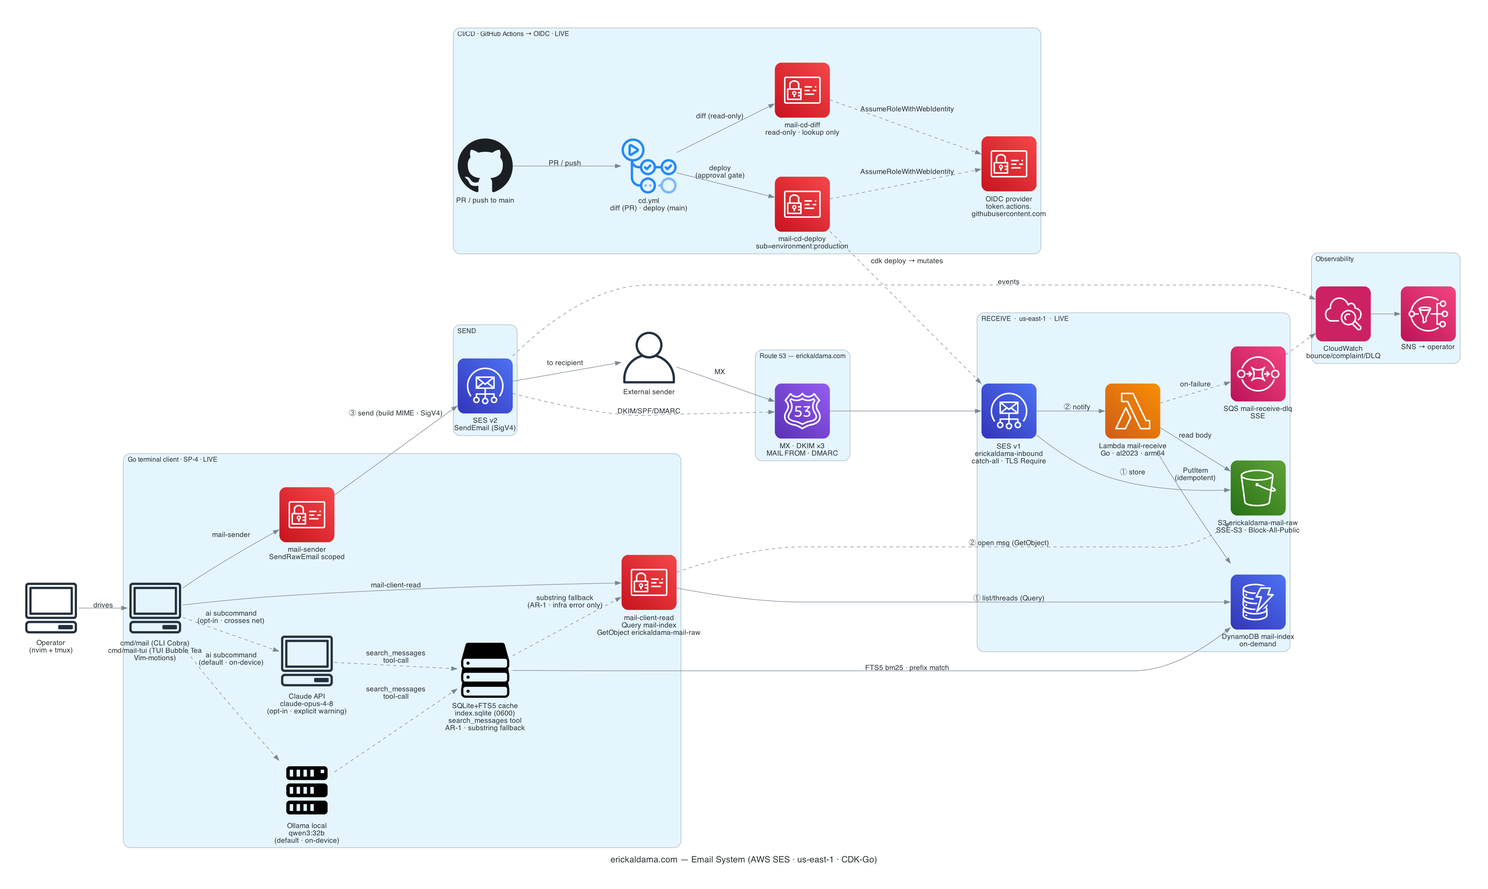
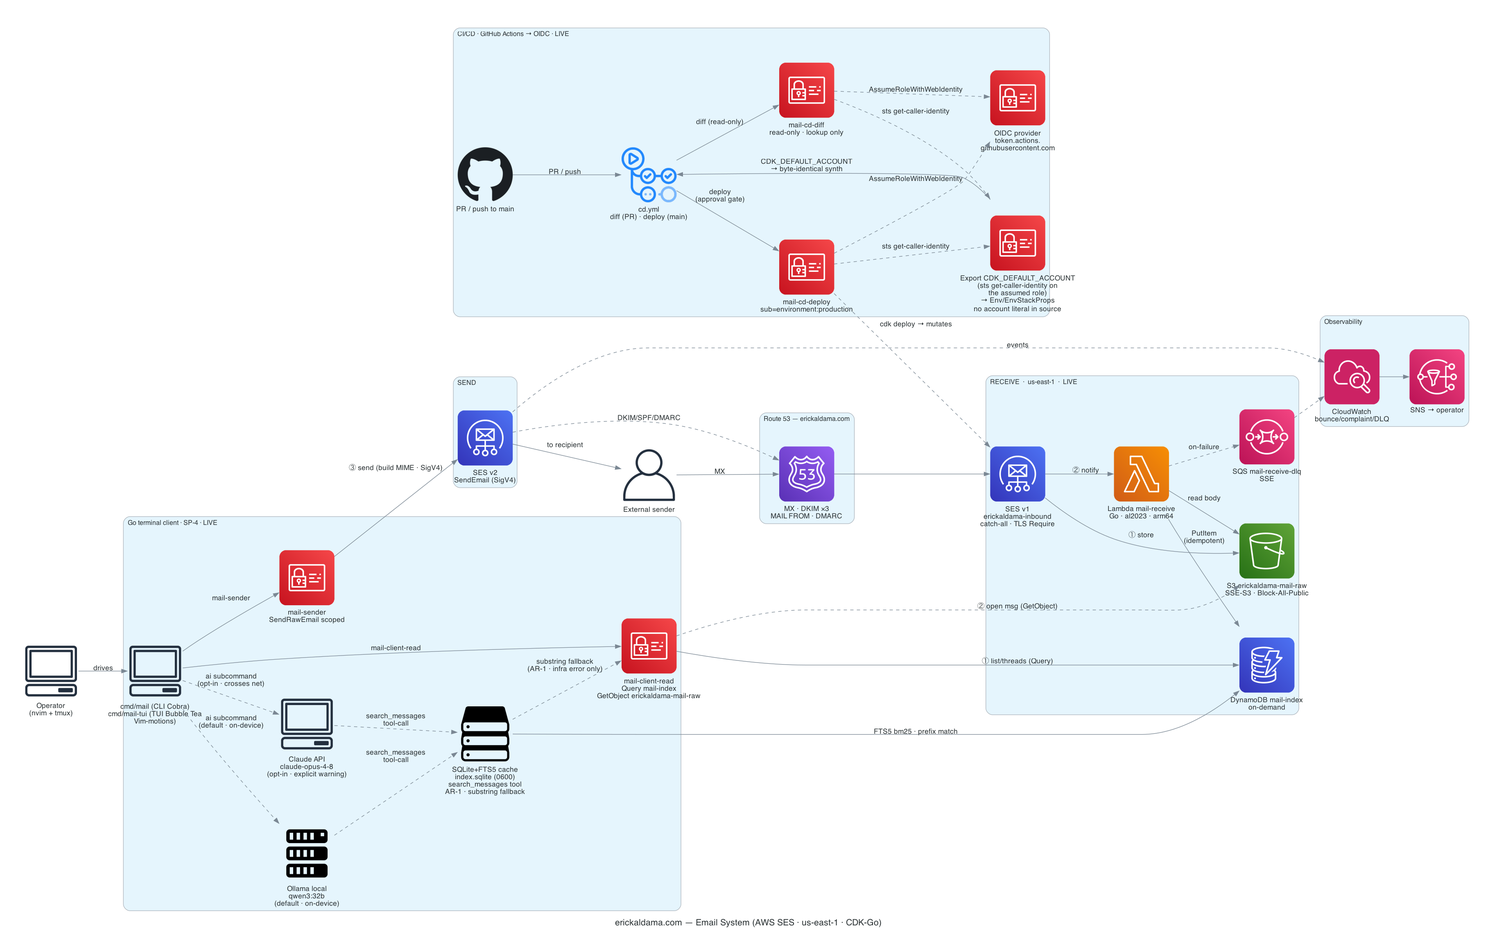
docs(nda): barrido de bitácora post-merge — 9º fogueo (METHODOLOGY) + diagramas del flujo de resolución del account + case-study + ROADMAP (SHA ab70c95)

diff --git a/docs/diagrams/architecture_icons.py b/docs/diagrams/architecture_icons.py
@@ -28,6 +28,13 @@ substring fallback that fires only on real infra failure (invariant AR-1). v0.7.
 hardened the tool Description (describe the search MECHANISM, ASCII-pure) so a local
 LLM stops inventing Gmail-style from: operators — a purely declarative change (no
 runtime path altered). Added the FTS5 cache node + backend edges below.
+
+NDA parametrization (2026-08, PR #22): the AWS Account ID + ARNs no longer appear as
+literals in the public repo. The account is resolved at synth from CDK_DEFAULT_ACCOUNT
+(exported in cd.yml from sts get-caller-identity on the OIDC-assumed role) and injected
+via NewEnv()/EnvStackProps into the 5 stacks; role-to-assume comes from GitHub secrets.
+cdk synth stays byte-identical (verified: empty cdk diff in CI). Added the account-
+resolution node + edges in the CI/CD cluster below.
 """
 
 from diagrams import Diagram, Cluster, Edge
@@ -96,6 +103,11 @@ with Diagram(
         oidc = IAM("OIDC provider\ntoken.actions.\ngithubusercontent.com")
         diff_iam = IAM("mail-cd-diff\nread-only · lookup only")
         deploy_iam = IAM("mail-cd-deploy\nsub=environment:production")
+        # NDA parametrization (PR #22): role ARNs come from GitHub secrets; the account is NOT a source
+        # literal — it is resolved at synth from CDK_DEFAULT_ACCOUNT, exported from the OIDC-assumed role.
+        acct_resolve = IAM(
+            "Export CDK_DEFAULT_ACCOUNT\n(sts get-caller-identity on\nthe assumed role)\n→ Env/EnvStackProps\nno account literal in source"
+        )
 
     # Receive flow
     sender >> Edge(label="MX") >> dns >> ses_in
@@ -142,4 +154,12 @@ with Diagram(
     gha >> Edge(label="deploy\n(approval gate)") >> deploy_iam
     diff_iam >> Edge(label="AssumeRoleWithWebIdentity", style="dashed") >> oidc
     deploy_iam >> Edge(label="AssumeRoleWithWebIdentity", style="dashed") >> oidc
+
+    # NDA parametrization (PR #22): the account is resolved from the assumed role at synth, NOT a source
+    # literal. role-to-assume comes from GitHub secrets; a cd.yml step exports CDK_DEFAULT_ACCOUNT from
+    # `sts get-caller-identity`, which NewEnv()/EnvStackProps inject into the 5 stacks. cdk synth/deploy
+    # then produce byte-identical templates (verified: empty cdk diff in CI) with no account literal in git.
+    diff_iam >> Edge(label="sts get-caller-identity", style="dashed") >> acct_resolve
+    deploy_iam >> Edge(label="sts get-caller-identity", style="dashed") >> acct_resolve
+    acct_resolve >> Edge(label="CDK_DEFAULT_ACCOUNT\n→ byte-identical synth") >> gha
     deploy_iam >> Edge(label="cdk deploy → mutates", style="dashed") >> ses_in

diff --git a/docs/CASE-STUDY-NDA-PARAMETRIZATION.md b/docs/CASE-STUDY-NDA-PARAMETRIZATION.md
@@ -1,0 +1,134 @@
+# Case study — sacar el Account ID de un repo público sin romper el CD (NDA parametrization)
+
+> Evidencia de ingeniería AI-native. Un frente real de `erickaldama-mail`: el repo es público y exponía el AWS
+> Account ID y los ARNs como literales en el source Go, el workflow de CI y los docs. El reto: sacarlos del código
+> versionado **al 100%** sin romper el CI/CD que ya despliega. La tesis del documento es cómo la auditoría del
+> *plan* y un *spike* de una unidad cazaron, antes de desplegar, los defectos que habrían roto el CD.
+
+## TL;DR
+
+El Account ID (`<ACCOUNT_ID>` tras la redacción), 6 constantes ARN y 2 `role-to-assume` del CI vivían como
+literales en un repo **público** — exposición NDA de superficie de reconocimiento. El fix (PR #22, CI verde
+end-to-end) los saca del source: el account se resuelve en synth desde `CDK_DEFAULT_ACCOUNT` (del rol OIDC en CI,
+`--profile` en local) y se inyecta vía un `Env` struct; los role ARNs pasan a GitHub secrets; los docs se redactan
+a `<ACCOUNT_ID>`. Verificación: `grep -rn <account> .` = **0** en todo el repo, y el `cdk diff` del CI comenta
+**vacío** — el template desplegado no cambia (byte-identidad). Costo: **$0/mes** (sin Secrets Manager).
+
+## El problema — identificadores, NO credenciales
+
+Un inventario exhaustivo (3 agentes) estableció el encuadre correcto, que decide toda la urgencia: **cero
+credenciales en git** — ni access keys, secret keys, session tokens, API keys, DB URIs, bearer tokens. Cada string
+tipo-secreto era una regex de redacción, un nombre de env var, o un placeholder de runbook. **Nada que rotar.** Lo
+expuesto eran *identificadores* (Account ID, ARNs) — no otorgan acceso sin un principal autenticado; el OIDC trust
+(`sub: repo:esaldgut/erickaldama-mail:environment:production`) es el boundary real, intacto. El tráfico de GitHub
+(0 forks, 0 views, ~5 clones dispersos) confirmó que la exposición es higiene de reconocimiento hacia adelante, no
+contención de brecha. **Distinguir identificador de credencial es la primera decisión: una credencial en git = rotar
+YA; un identificador = parametrizar sin pánico.**
+
+## La decisión — approach #3 (Env struct inyectado), no #4 (tokens CDK)
+
+Se evaluaron 4 alternativas (la regla universal quedó destilada en el skill `iac-inject-env-never-hardcode-account`):
+
+| # | Approach | Veredicto |
+|---|---|---|
+| 1 | `const→var` con `os.Getenv` en `init()` | ❌ PROHIBIDO — estado global capturado temprano, frágil |
+| 2 | funciones (`IdentityArn()`) | aceptable, ruidoso |
+| **3** | **`Env` struct construido 1× + inyectado (`EnvStackProps`)** | ✅ ELEGIDO |
+| 4 | tokens CDK nativos (`Fn::Sub`/`AWS::AccountId`) | ❌ cambia el template → rompe byte-identidad + tests |
+
+Se eligió **#3** por un criterio concreto: **byte-identidad del template**. `NewEnv()` compone cada ARN desde
+`Env.Account` con `fmt.Sprintf`, produciendo strings idénticos char-por-char a los literales viejos — así el
+template sintetizado NO cambia (`cdk diff` vacío), y la CD ya viva no corre riesgo. El approach #4 (tokens) cambiaría
+el template (literal → `{"Ref":"AWS::AccountId"}`), rompiendo la byte-identidad y los template-assertion tests; y los
+4 `cdk-hnb659fds-*` role ARNs llevan el account **dentro del nombre**, forzando `Fn::Sub` de todos modos. #3 preserva
+el template y cierra dos deudas pre-existentes de paso (el `main.go` que re-hardcodeaba el account; los ARN
+recompuestos inline).
+
+## La auditoría del PLAN cazó 3 CRIT + 4 MAJOR — antes de una sola línea de código
+
+El frente más distintivo de este caso: la pieza de auditoría que cazó el defecto más caro **no fue sobre el código
+ni el texto — fue sobre el PLAN de implementación**. El plan pasó por una auditoría adversarial de 3 frentes
+(byte-identidad de los `fmt.Sprintf` vs los literales reales · blast-radius de borrar las constantes · coherencia +
+CI). Hallazgos, cada uno un defecto que habría roto la ejecución:
+
+| Hallazgo | Sev | Qué habría pasado |
+|---|---|---|
+| 2 consumidores omitidos del plan (`NewAccountPrincipal`, 2× `ReceiptRuleArn`) | CRIT | compile break — el plan migraba unas referencias y dejaba otras |
+| `CDK_DEFAULT_ACCOUNT` NO lo setea `configure-aws-credentials` (verbatim del README) | CRIT | el synth del CI usaría el placeholder → diff gigante / cuenta equivocada |
+| threading no-uniforme (5 firmas de stack heterogéneas) | MAJOR | un 4º param no encajaba → se diseñó el `EnvStackProps` wrapper |
+| baseline byte-identidad all-stacks nunca capturado | MAJOR | el gate diffearía contra un HEAD ya mutado |
+| trampa de consistencia `NewEnv()` en tests | MAJOR | template y assert podían derivar de cuentas distintas |
+| 5º test omitido del plan | MINOR | churn del wrapper sin cubrir ese call-site |
+
+**El plan es código-por-escribir; se audita como código.** Un plan con un consumidor omitido garantiza un compile
+break; un plan que apuesta a una variable de entorno implícita garantiza un diff gigante en CI. Ninguno de estos
+vive en un diff todavía — solo la auditoría del plan los ve.
+
+## El spike cazó el CRIT del CI en vivo — el go/no-go antes de propagar
+
+El approach #3 asume que `fmt.Sprintf` produce strings byte-idénticos → template idéntico. En vez de propagarlo a
+los 5 stacks por fe, el **spike** lo probó en 1 (`SendingStack`): capturar el template de HEAD → parametrizar solo
+ese → `cdk synth` → `diff` contra el baseline. **El primer `diff` NO fue vacío** — sintetizó los ARN con una cuenta
+distinta (`288761749126`/`us-west-2`, otra cuenta del ecosistema) en vez de la correcta. Causa: la CDK CLI popula
+`CDK_DEFAULT_ACCOUNT` de las credenciales **activas** de la shell, y el default apuntaba a otra cuenta. Con
+`cdk synth --profile AdministratorAccess-<account>` explícito, el diff fue vacío.
+
+**El diff equivocado no fue un fallo — fue el spike cazando, en vivo, exactamente el CRIT que la auditoría del plan
+había señalado** sobre `CDK_DEFAULT_ACCOUNT`. Dos reglas operativas nacieron del spike:
+1. **`--profile` explícito es imperativo** en todo comando `cdk`/`aws` del frente — nunca confiar en el default de la
+   shell (`aws-cli-pre-flight-canonical`).
+2. **El CI necesita un step que exporte `CDK_DEFAULT_ACCOUNT` explícito** desde el rol OIDC asumido
+   (`aws sts get-caller-identity`), porque `configure-aws-credentials` no lo hace. Sin el export, el synth del CI
+   usaría el placeholder → diff gigante / deploy a la cuenta equivocada.
+
+Sin el spike, ambos defectos habrían aparecido en el `cdk-diff` job del CI (o peor, en un deploy a la cuenta
+equivocada). El spike convirtió un go/no-go de 1 stack en la prueba de todo el approach.
+
+## Verificación — el gate de byte-identidad (y su trampa)
+
+- `go build`/`vet`/`test -count=1 ./...` → verde (18 paquetes).
+- **Byte-identidad de los 5 stacks:** el `diff` de los `*.template.json` contra el baseline (capturado antes de
+  editar) = vacío, **salvo** el `S3Key`/`aws:asset:path` del bundle del Lambda. Nota de método importante: al
+  verificar byte-identidad de un template CDK con un Lambda bundleado, el hash del asset SIEMPRE difiere entre
+  synths (varía por el build Go) — hay que **excluir** esas líneas del diff; un `diff` que solo muestra `asset.*` es
+  un PASS, no un fallo.
+- **`grep -rn <account> .` = 0** en todo el repo — el account erradicado del source; solo vive en el runtime del env.
+- **Gate end-to-end:** el `cdk-diff` job del PR corrió con el rol OIDC real (vía el secret) + el export de
+  `CDK_DEFAULT_ACCOUNT` → comentó **diff vacío**, probando que el CD funciona con el account resuelto del entorno y
+  que el template desplegado no cambia.
+- **Nota `local-env-hides-ci-precondition`:** el `build & test` del CI tiene un gate `gofmt -l` que
+  `go build`/`vet`/`test` local NO ejercitan — un `.go` creado con escritura directa quedó gofmt-desalineado, pasó
+  local pero rompió el CI. Lección: correr el gate del CI (gofmt/lint) local antes del PR, no solo build+test.
+
+## Lo que se interiorizó
+
+- **Skill `iac-inject-env-never-hardcode-account` v1.1.0** — la regla universal, ahora con el caso entregado (#3
+  piso, #4 techo, `const→var` prohibido; el corte es la byte-identidad; `--profile` imperativo; export del account
+  en CI; método byte-identidad-menos-asset).
+- **Skill `local-env-hides-ci-precondition` v1.1.0** — la variante "gate del CI que los comandos locales no
+  ejercitan" (el gofmt).
+- **9º fogueo en `docs/METHODOLOGY.md`** — la auditoría del plan + el spike como go/no-go.
+- **Diagramas** (mermaid en `architecture.md` + mingrammer en `docs/diagrams/`) — el flujo de resolución del account.
+- **Memorias** actualizadas a estado entregado.
+
+## Por qué es evidencia de portafolio
+
+El cambio es de "seguridad/NDA" — la clase de trabajo donde es fácil o sobre-reaccionar (rotar en pánico lo que no
+es credencial) o romper algo vivo (cambiar de dónde sale el account y tumbar el CD). Este frente hizo ninguna de las
+dos: inventarió primero (0 credenciales → sin urgencia de brecha), eligió el approach que preserva byte-identidad
+(sin tocar el template desplegado), auditó el *plan* antes de escribir código (3 CRIT + 4 MAJOR cazados), y probó el
+approach en 1 unidad antes de propagarlo (el spike cazó el CRIT del CI en vivo). La disciplina escala con las
+consecuencias — sacar un identificador de un repo público tiene la consecuencia de poder tumbar un CD en producción,
+y se trató con el rigor que eso merece.
+
+Encaja en el ecosistema del repo (ver el README, "Ecosystem"): la lección generalizable —no los detalles del
+cliente de correo— está destilada como un skill reutilizable, candidato a graduar hacia
+[`ai-native-engineering-workspace`](https://github.com/esaldgut/ai-native-engineering-workspace).
+
+## Referencias
+
+- CHANGELOG: [`CHANGELOG.md`](../CHANGELOG.md) §`[infra · NDA]` — narrativa completa.
+- Spec + plan de diseño: `docs/superpowers/specs/` y `docs/superpowers/plans/` (frente NDA).
+- Metodología (9º fogueo): [`docs/METHODOLOGY.md`](METHODOLOGY.md).
+- Arquitectura (diagrama de resolución del account): [`docs/architecture.md`](architecture.md).
+- Skill universal: `iac-inject-env-never-hardcode-account`.

diff --git a/docs/METHODOLOGY.md b/docs/METHODOLOGY.md
@@ -203,6 +203,62 @@ mismatch exacto — validar, no confiar, aplicado al propio diagnóstico.
 
 ---
 
+## La auditoría en capas, 9º fogueo (caso infra NDA, PR #22) — la auditoría del PLAN y el spike como go/no-go
+
+El frente NDA (sacar el Account ID + ARNs del repo público, parametrizándolos con un `Env` struct inyectado) es el
+**noveno fogueo**, y es el primero donde la pieza de auditoría que caza el defecto más caro **no es sobre el código
+ni sobre el texto — es sobre el PLAN de implementación**, antes de escribir una sola línea. Y donde el **spike**
+(probar el patrón en 1 unidad antes de propagarlo a 5) cazó, en vivo, un defecto que ninguna auditoría estática
+pudo ver porque vivía en el entorno de ejecución del CI.
+
+**Sub-lección — auditar el PLAN caza clases que la auditoría del código no puede, porque el código aún no existe.**
+El plan de implementación pasó por una auditoría adversarial de 3 frentes (byte-identidad de los `fmt.Sprintf` vs
+los literales reales · blast-radius de borrar las constantes · coherencia + CI). Cazó **3 CRIT + 4 MAJOR** antes de
+tocar código, cada uno un defecto que habría roto la ejecución:
+
+| Hallazgo | Sev | Qué habría pasado sin cazarlo |
+|---|---|---|
+| 2 consumidores omitidos del plan (`sending_stack.go:171` `NewAccountPrincipal`, `receiving_stack.go:142,151` `ReceiptRuleArn`) | CRIT | compile break — el plan migraba unas referencias y dejaba otras adyacentes |
+| `CDK_DEFAULT_ACCOUNT` NO lo setea `configure-aws-credentials` (verbatim de su README) | CRIT | el synth del CI usaría el placeholder → diff gigante / deploy a la cuenta equivocada |
+| threading no-uniforme (las 5 firmas de stack difieren: `bucket` de receiving, 2 returns de mail_storage) | MAJOR | un 4º param `env` no encajaba en todas → se diseñó el `EnvStackProps` wrapper |
+| baseline byte-identidad all-stacks nunca capturado | MAJOR | Task 4 diffearía contra un HEAD ya mutado, sin nada que comparar |
+| trampa de consistencia `NewEnv()` en tests | MAJOR | template y assert podían derivar de cuentas distintas bajo el placeholder |
+| 5º test (`mail_storage_stack_test.go`) omitido del plan | MINOR | churn del wrapper sin cubrir ese call-site |
+
+Las siete corridas anteriores auditaron *artefactos que ya existían* (código, un `description`). v0.7.1→v0.7.2 (NDA)
+probó que el mismo aparato adversarial aplica al **plan** — y que ahí caza la clase más barata de arreglar y más
+cara de no cazar: un plan con un consumidor omitido garantiza un compile break; un plan que apuesta a una variable
+de entorno implícita garantiza un diff gigante en CI. El plan es código-por-escribir; se audita como código.
+
+**Sub-lección — el spike es el go/no-go, y cazó el CRIT del CI EN VIVO antes de propagar.** El approach #3 asume que
+construir los ARN desde `Env.Account` con `fmt.Sprintf` produce strings byte-idénticos → template idéntico. En vez
+de propagarlo a los 5 stacks por fe, el spike lo probó en 1 (`SendingStack`): capturar el template de HEAD →
+parametrizar solo ese → `cdk synth` → `diff` contra el baseline. El primer `diff` **NO fue vacío** — sintetizó los
+ARN con `288761749126`/`us-west-2` (otra cuenta del ecosistema) en vez de `<ACCOUNT_ID>`/`us-east-1`. Causa: la CDK
+CLI popula `CDK_DEFAULT_ACCOUNT` de las credenciales ACTIVAS de la shell, y el default apuntaba a otra cuenta. El
+diff equivocado **no fue un fallo del approach — fue el spike cazando en vivo exactamente el CRIT que la auditoría
+del plan había señalado** sobre `CDK_DEFAULT_ACCOUNT`. Con `cdk synth --profile AdministratorAccess-<account>`
+explícito, el diff fue vacío. Dos lecciones operativas nacieron del spike: (1) `--profile` explícito es imperativo
+en todo comando `cdk`/`aws` del frente (nunca confiar en el default — `aws-cli-pre-flight-canonical`); (2) el CI
+necesita un step que **exporte `CDK_DEFAULT_ACCOUNT` explícito** desde el rol OIDC asumido, porque
+`configure-aws-credentials` no lo hace. Sin el spike, ambos defectos habrían aparecido en el `cdk-diff` job del CI
+(o peor, en un deploy a la cuenta equivocada). El spike convirtió un go/no-go de 1 stack en la prueba de todo el
+approach — y su `diff` equivocado fue la señal, no el ruido.
+
+**Sub-lección — el método de byte-identidad tiene su propia trampa: el asset del Lambda.** Al verificar
+byte-identidad de un template CDK con un Lambda bundleado, el `S3Key`/`aws:asset:path` del asset SIEMPRE difiere
+entre synths (varía por el hash del build Go — timestamps, orden de compilación), ajeno al cambio. El `diff` de
+byte-identidad debe hacerse sobre los `*.template.json` **excluyendo** las líneas de `asset.*`/`S3Key`: un `diff`
+que solo muestra esas líneas es un PASS de byte-identidad, no un fallo. Verificado en los 5 stacks (el único diff
+fue el asset de `ReceivingStack`, benigno). Y el gate end-to-end fue el `cdk-diff` job del PR corriendo con el rol
+OIDC real + el export de `CDK_DEFAULT_ACCOUNT` → comentó diff vacío, probando que el CD funciona con el account
+resuelto del entorno. Skill universal destilado: `iac-inject-env-never-hardcode-account` (#3 piso, #4 techo, el
+`const→var` con `os.Getenv` en init PROHIBIDO por estado global capturado temprano). Y la lección
+`local-env-hides-ci-precondition`: el `build & test` del CI tiene un gate `gofmt -l` que `go build`/`vet`/`test`
+local NO ejercitan — un `.go` creado con Write puede quedar gofmt-desalineado y pasar local pero romper CI.
+
+---
+
 ## Disciplinas transversales
 
 - **Validar, no confiar** — cada reporte de subagente (y cada prescripción de fix de un revisor) se verifica

diff --git a/docs/architecture.md b/docs/architecture.md
@@ -230,6 +230,52 @@ the DynamoDB table, the SQS DLQ, IAM policies, and the CloudWatch alarms — is 
 This is enforced, not just intended: a `PreToolUse` hook blocks any AWS write that does not come
 through the CDK-Go stack, and a skill-recipe verifies live AWS docs before each step.
 
+### NDA parametrization — the account never lives in the public source (PR #22)
+
+This is a **public** repo, so the AWS Account ID and ARNs are NOT literals in the source. They are resolved
+at synth/deploy and injected — the account never appears in a committed `.go`/`.yml` file (verified:
+`grep -rn <account> .` = 0). The mechanism:
+
+```mermaid
+flowchart LR
+    subgraph ci["CI (GitHub Actions)"]
+        oidc["OIDC assume-role<br/>(role-to-assume from<br/>${{ secrets.AWS_CD_*_ROLE_ARN }})"]
+        export["step: export CDK_DEFAULT_ACCOUNT<br/>= aws sts get-caller-identity"]
+    end
+    subgraph local["Local (human)"]
+        profile["--profile AdministratorAccess-&lt;account&gt;<br/>(imperative — never the shell default)"]
+    end
+    newenv["NewEnv() · internal/infra/env.go<br/>reads CDK_DEFAULT_ACCOUNT / REGION<br/>fallback 000000000000 (offline synth/test)"]
+    env["Env struct + EnvStackProps<br/>composes ARNs with fmt.Sprintf<br/>(byte-identical to the former literals)"]
+    stacks["5 CDK-Go stacks<br/>(account injected, no literal)"]
+    tpl["cdk synth → template<br/>byte-identical · empty cdk diff"]
+
+    oidc --> export --> newenv
+    profile --> newenv
+    newenv --> env --> stacks --> tpl
+
+    classDef ci fill:#1a2332,stroke:#3fb950,stroke-width:1px,color:#fff;
+    classDef core fill:#1a2332,stroke:#7b68ee,stroke-width:1px,color:#fff;
+    classDef store fill:#1a2332,stroke:#ff9900,stroke-width:1px,color:#fff;
+    class oidc,export ci;
+    class profile,newenv,env core;
+    class stacks,tpl store;
+```
+
+**Approach #3 (Env struct injected), not #4 (CDK tokens):** `NewEnv()` composes each ARN from `Env.Account`
+with `fmt.Sprintf`, producing strings **byte-identical** to the former literals — so the synthesized template
+does not change (the `cdk diff` in CI comes back empty). This preserves the live CD (no infra churn) while
+removing the account from the source. The CDK-native-tokens alternative (#4, `Fn::Sub`/`AWS::AccountId`) would
+change the template (breaking byte-identity + the template-assertion tests), and the 4 `cdk-hnb659fds-*` role
+ARNs carry the account **inside the name**, forcing `Fn::Sub` anyway. The reusable rule is the skill
+`iac-inject-env-never-hardcode-account` (#3 floor, #4 ceiling, `const→var` prohibited). See
+[`CHANGELOG.md`](../CHANGELOG.md#infra--nda) and the design spec under `docs/superpowers/specs/`.
+
+> **Operational rule (discovered by the spike):** every `cdk`/`aws` command for this account uses
+> `--profile AdministratorAccess-<account>` **explicitly** — the CDK CLI populates `CDK_DEFAULT_ACCOUNT` from
+> the shell's active credentials, and the default here pointed at a *different* account, so the spike first
+> synthesized the wrong account until `--profile` was pinned (`aws-cli-pre-flight-canonical`).
+
 ## Key decisions (audited against Well-Architected)
 
 | Decision | Rationale |
@@ -243,3 +289,4 @@ through the CDK-Go stack, and a skill-recipe verifies live AWS docs before each 
 | AI default = Ollama local (`qwen3:32b`), not Claude API | Mail corpus never crosses the network without explicit opt-in; `qwen3:32b` is Ollama's reference model for tool-calling |
 | Two disjoint IAM users (`mail-client-read` / `mail-sender`) | Least-privilege split: read path cannot send; send path cannot read the inbox |
 | `ErrSandboxRecipient` typed sentinel (not string-match) | SES sandbox rejects non-verified recipients; typed error lets callers handle it cleanly without fragile string comparison |
+| Account/ARNs via `Env` struct injection, not source literals (NDA, PR #22) | Public repo — the account is resolved at synth from `CDK_DEFAULT_ACCOUNT`, never committed. Approach #3 preserves byte-identity (empty `cdk diff`); #4 (CDK tokens) would change the template and break the live CD |

diff --git a/docs/ROADMAP.md b/docs/ROADMAP.md
@@ -23,6 +23,12 @@ sesión — todo lo que hay que recordar entre sesiones está aquí, versionado 
 | v0.7 | FTS5 en las tools del agente AI (`search_messages`, `Searcher`/`fallbackSearcher`, AR-1) | `7bef535` | #18 |
 | v0.7.1 | Endurecer el `Description` de `search_messages` contra operadores estilo Gmail (declarativo, ASCII, describe el mecanismo) | `b22449f` | #21 |
 
+**Infra (no versión de cliente):**
+
+| Frente | Qué | Merge | PR |
+|---|---|---|---|
+| NDA parametrización | Account ID + ARNs fuera del source público — `Env` struct inyectado (approach #3) + `EnvStackProps`, role ARNs a GitHub secrets, export de `CDK_DEFAULT_ACCOUNT` en CI, docs a `<ACCOUNT_ID>`. Byte-identidad verificada (`cdk diff` vacío); `grep <account>` = 0. | `ab70c95` | #22 |
+
 Los SHA son el commit de merge de cada PR (`gh pr list --state merged`), no el HEAD del branch de feature —
 la fuente de verdad si hace falta re-verificar es el historial de GitHub del repo.
 
@@ -32,6 +38,20 @@ la fuente de verdad si hace falta re-verificar es el historial de GitHub del rep
 
 Ítems diferidos a propósito, con motivo explícito, que hoy viven dispersos entre comentarios de PR y memoria.
 Consolidados aquí para que sobrevivan a través de sesiones.
+
+### Infra NDA (PR #22)
+
+- **Approach #4 (tokens CDK nativos) como evolución futura** — hoy #3 (Env struct) preserva byte-identidad. Si en
+  algún momento se acepta que el template cambie (literal → `{"Ref":"AWS::AccountId"}`) y se reescriben los
+  template-assertion tests para asertar tokens, #4 es el techo idiomático (el account desaparece también del
+  template renderizado, no solo del source). No urgente — #3 ya saca el account del source. Ver el skill
+  `iac-inject-env-never-hardcode-account`.
+- **`Region` sigue como literal `us-east-1`** en varias condiciones IAM (`aws:RequestedRegion`) y en `cd.yml` —
+  NO es fuga de account (región no es secreta), pero si algún día el proyecto se multi-región, parametrizarla
+  por el mismo `Env` struct cierra la portabilidad. Deuda consciente, no urgente.
+- **Los `iam/*.sh` leen `${EXPECTED_ACCOUNT}`** — el humano que los corre out-of-band debe exportarlo (documentado
+  en `docs/BOOTSTRAP.md`). Candidato: un wrapper que lo derive de `aws sts get-caller-identity` para no exportarlo a
+  mano. Menor.
 
 ### v0.7
 
